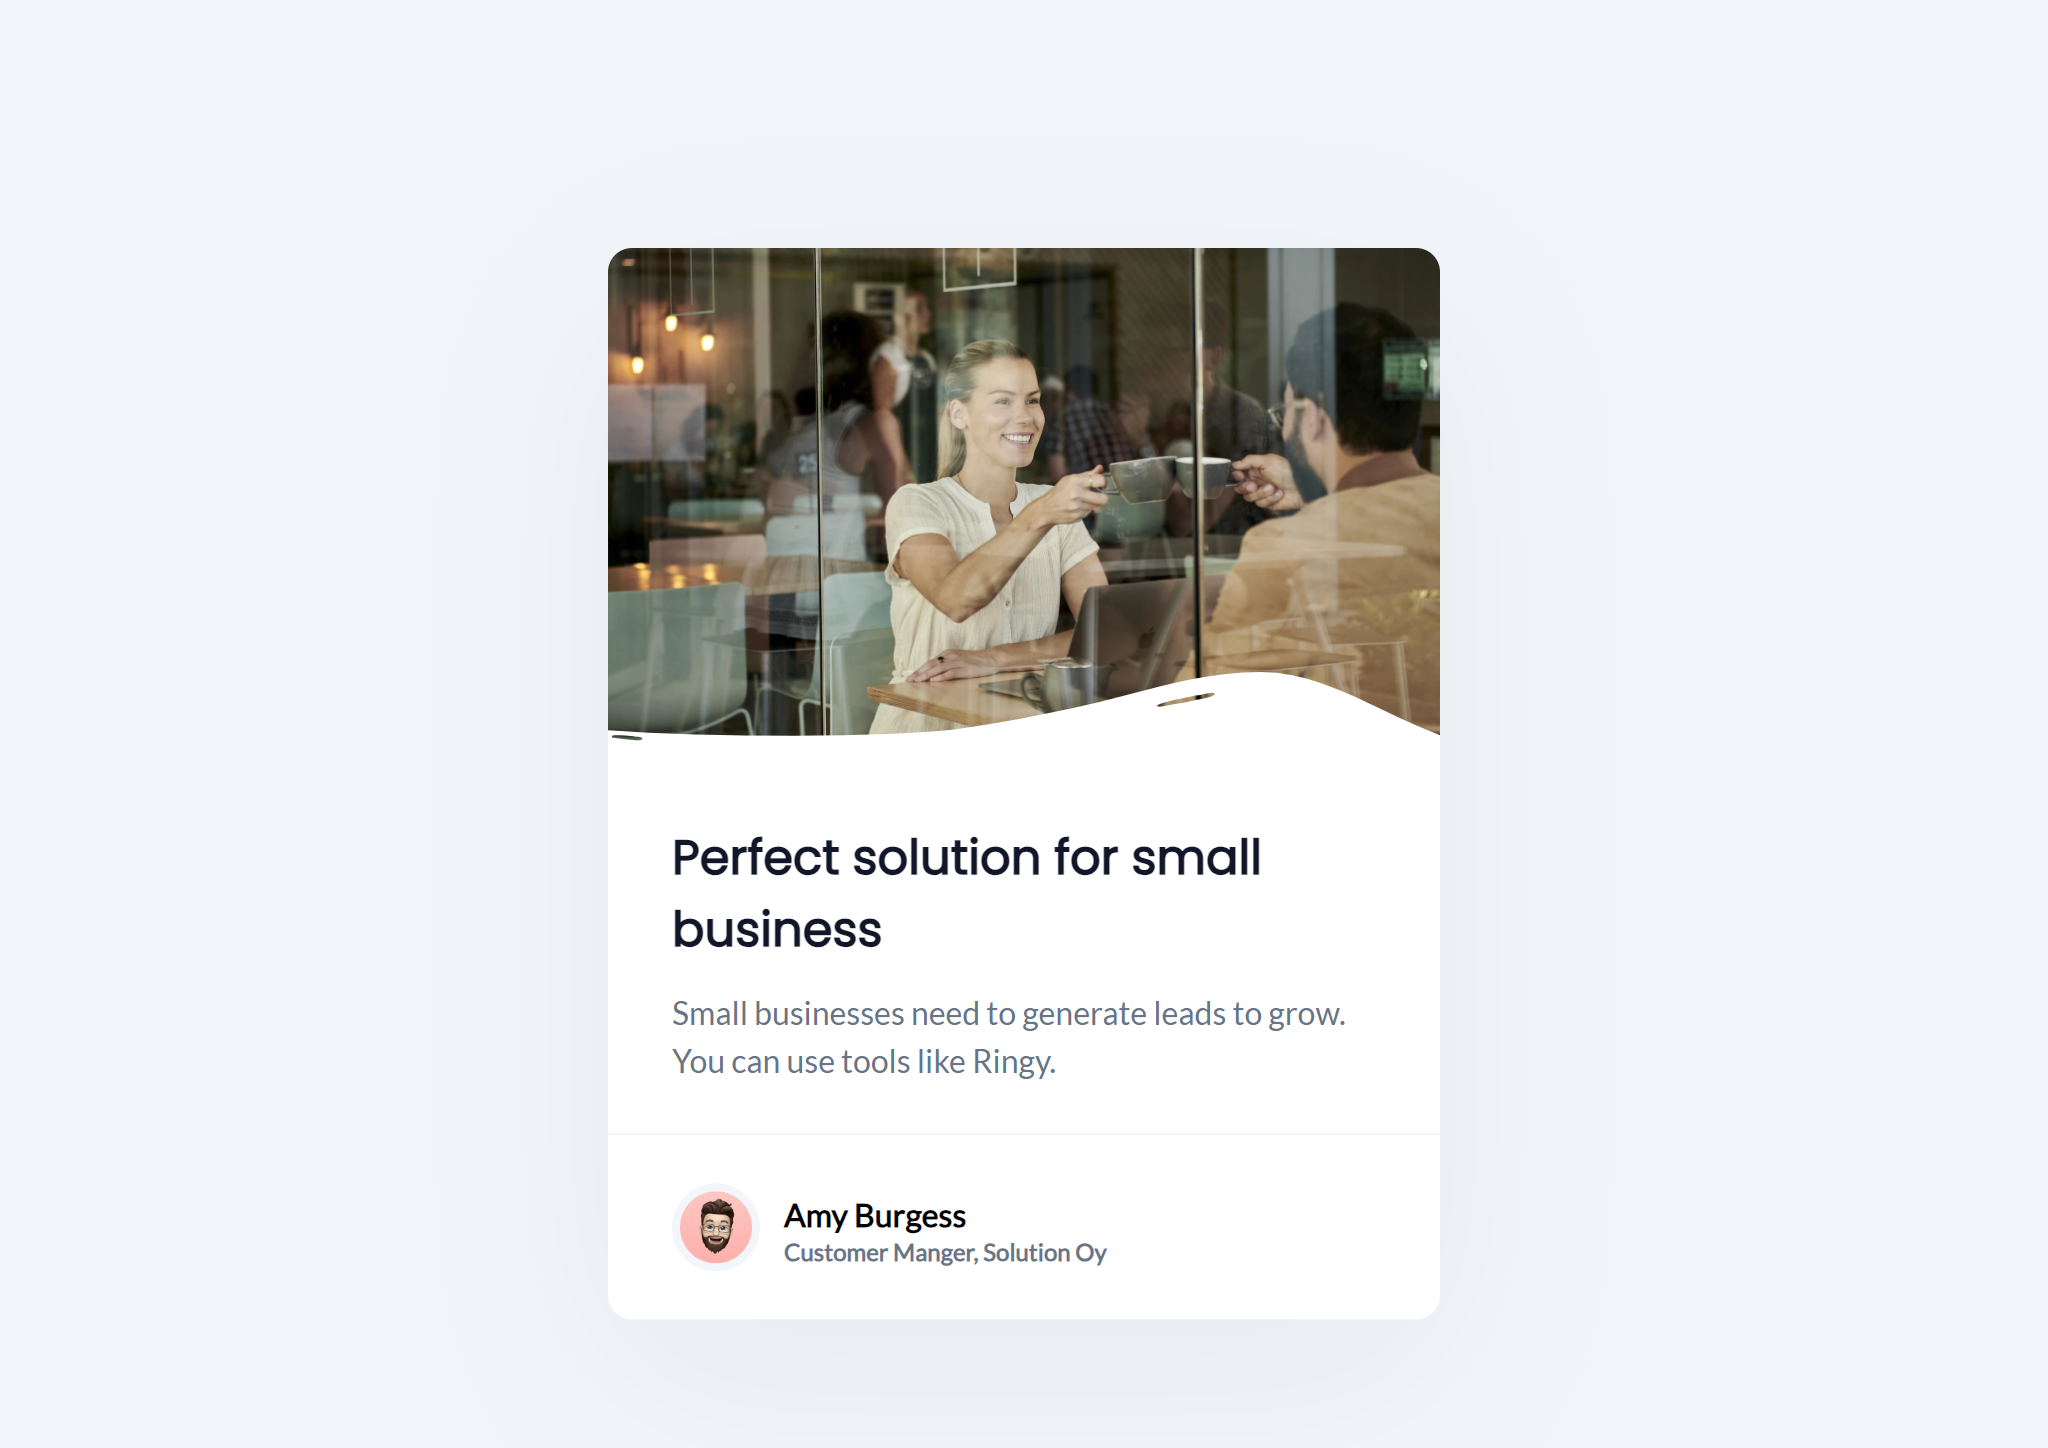
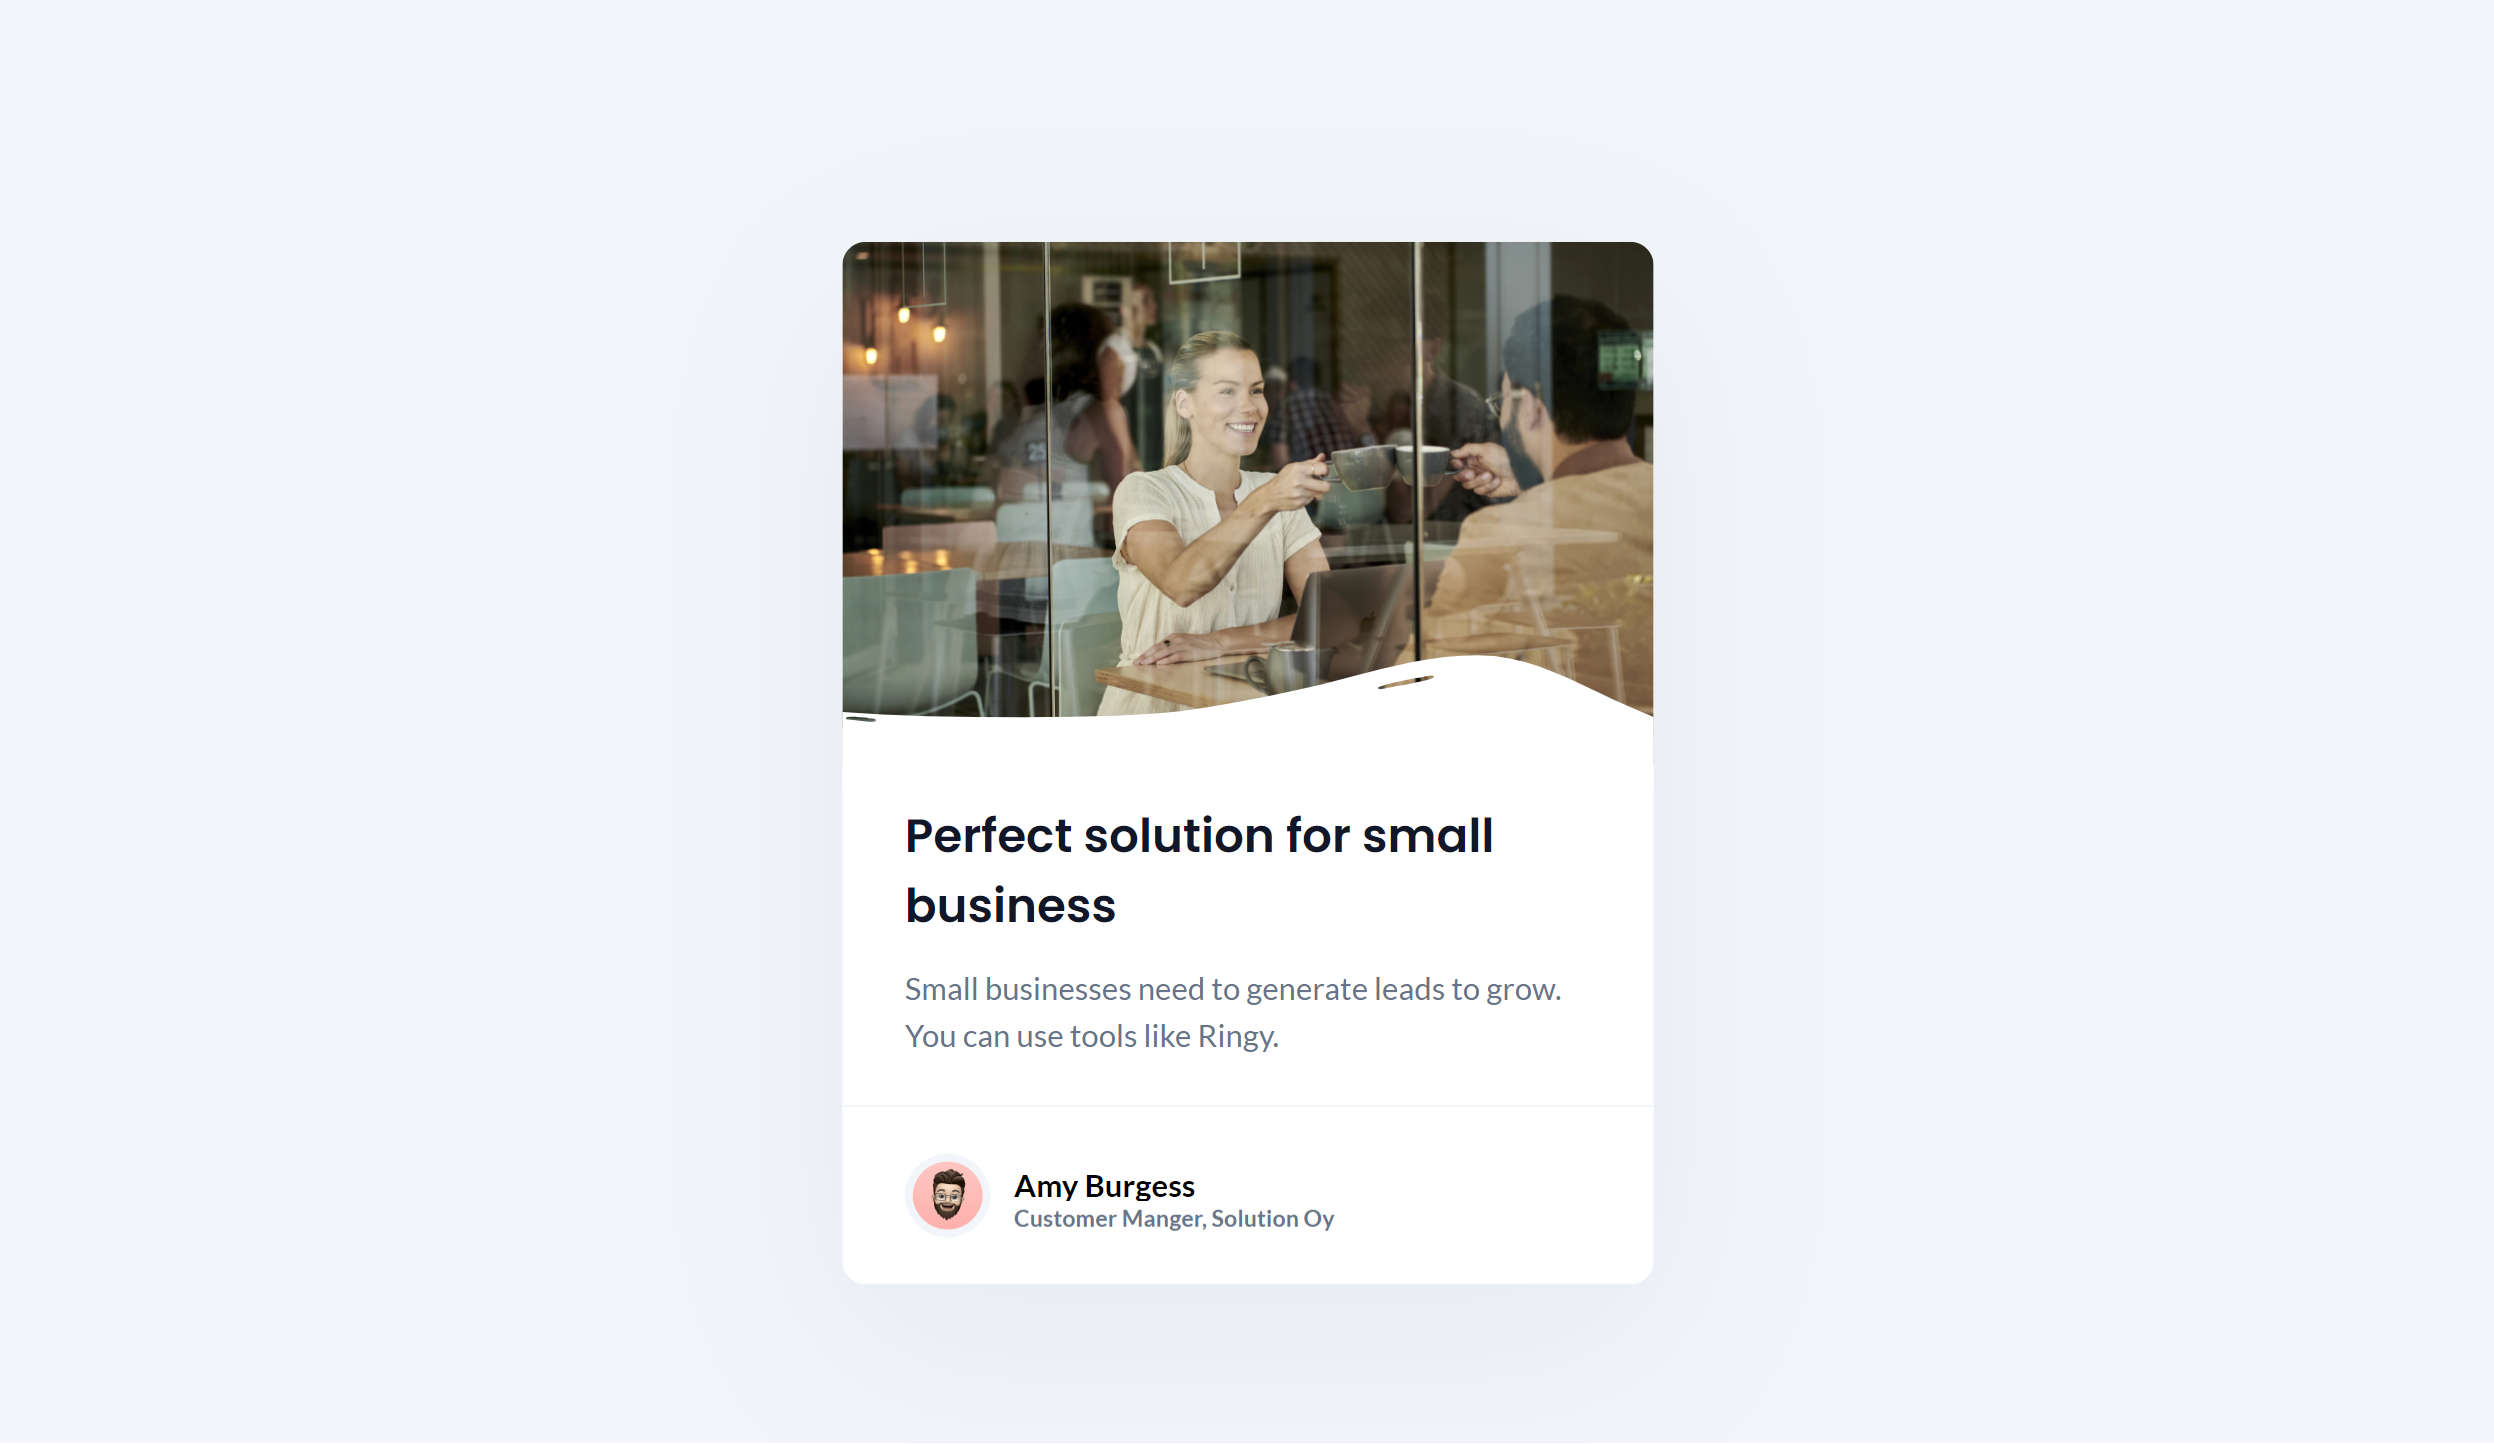
misc: スクショ更新（フォントの微妙な違い）(#9)

diff --git a/README.md b/README.md
@@ -47,7 +47,7 @@
 
 ### Mobile
 
-<img src="./screenshots/mobile.png" alt="overview - mobile" width="35%">
+<img src="./screenshots/mobile.png" alt="overview - mobile" width="50%">
 
 ### Built With
 
